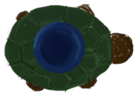
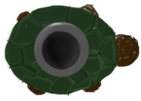
Add moving animation

Changed region(s): [[0.237, 0.2165, 0.6519, 0.7732], [0.8889, 0.3402, 0.9185, 0.3711], [0.0593, 0.6495, 0.0889, 0.6804]]

diff --git a/firstLevel.py b/firstLevel.py
@@ -68,7 +68,11 @@ class TrashObj:
 class TurtleObj:
     def __init__(self, img_path):
         # Take image as input
-        self.img = pygame.image.load(img_path)
+        self.img_path = img_path
+        self.i = 0
+        self.img1 =  pygame.image.load(self.img_path[0])
+        self.img2 =  pygame.image.load(self.img_path[1])
+        self.img = pygame.image.load(self.img_path[self.i])
         self.vel = 100 
         self.speed = 2 # Adjust this value to control turtle's speed
         self.direction = 1  # 1 for right, -1 for left
@@ -78,6 +82,13 @@ class TurtleObj:
         y = random.randint(self.vel, HEIGHT - self.vel)
         self.rect.center = check_and_append(x, y, self.vel)
 
+    def rotate(self):
+        # Rotate the turtle image by 180 degrees
+        self.img1 = pygame.transform.rotate(self.img1, 180)
+        self.img2 = pygame.transform.rotate(self.img2, 180)
+        self.img = pygame.transform.rotate(self.img, 180)
+
+
     def move(self):
         # Update turtle's position based on the direction
         self.rect.move_ip(self.speed * self.direction, 0)
@@ -85,7 +96,16 @@ class TurtleObj:
         # Check if the turtle reaches the screen boundaries and change direction
         if self.rect.left <= 0 or self.rect.right >= WIDTH:
             self.direction *= -1
-            self.img = pygame.transform.rotate(self.img, 180)
+            self.rotate()
+
+    def update_img(self):
+        match(self.i):
+            case 0:
+                self.i += 1
+                self.img = self.img2
+            case 1:
+                self.i -= 1
+                self.img = self.img1
 
 def lose_window():
     cap = cv2.VideoCapture('vids/game over.mov')  # שם של קובץ
@@ -288,10 +308,10 @@ def check_and_append(x, y, vel):
     return (x, y)
 
 metal_t = draw_turtle(['images/GrayT.png', 'images/MetalTM.png'])
-organic_t = draw_turtle('images/BrownT.png')
-glass_t = draw_turtle('images/PurpleT.png')
-paper_t = draw_turtle('images/BlueT.png')
-plastic_t = draw_turtle('images/YellowT.png')
+organic_t = draw_turtle(['images/BrownT.png', 'images/OrganicTM.png'])
+glass_t = draw_turtle(['images/PurpleT.png', 'images/GlassTM.png'])
+paper_t = draw_turtle(['images/BlueT.png', 'images/PaperTM.png'])
+plastic_t = draw_turtle(['images/YellowT.png', 'images/PlasticTM.png'])
 TURTLEOBJ = [metal_t, organic_t, glass_t, paper_t, plastic_t]
 
 def main():
@@ -306,13 +326,13 @@ def main():
     run = True
     clock = pygame.time.Clock()
     start_time = time.time()
-    spawn_time = start_time
+    spawn_time = spawn_time1 = start_time
 
     # main loop
     while run:
         elapsed_time = time.time() - start_time
         # Spawn new images every 15 seconds
-        current_time = time.time()
+        current_time = current_time1 = time.time()
 
         if current_time - spawn_time > 15:
             # Iterate over the trash images to draw them and check for collision
@@ -374,6 +394,10 @@ def main():
         draw(BG, img_obj, elapsed_time)
         for t in range(0, lvl+1):
             draw_t(TURTLEOBJ[t])
+            if current_time1 - spawn_time1 >= 1:
+                for j in range(0, lvl+1):
+                    TURTLEOBJ[j].update_img()
+                spawn_time1 = current_time1
             TURTLEOBJ[t].move()
 
         pygame.display.update()  # Update the GUI pygame
